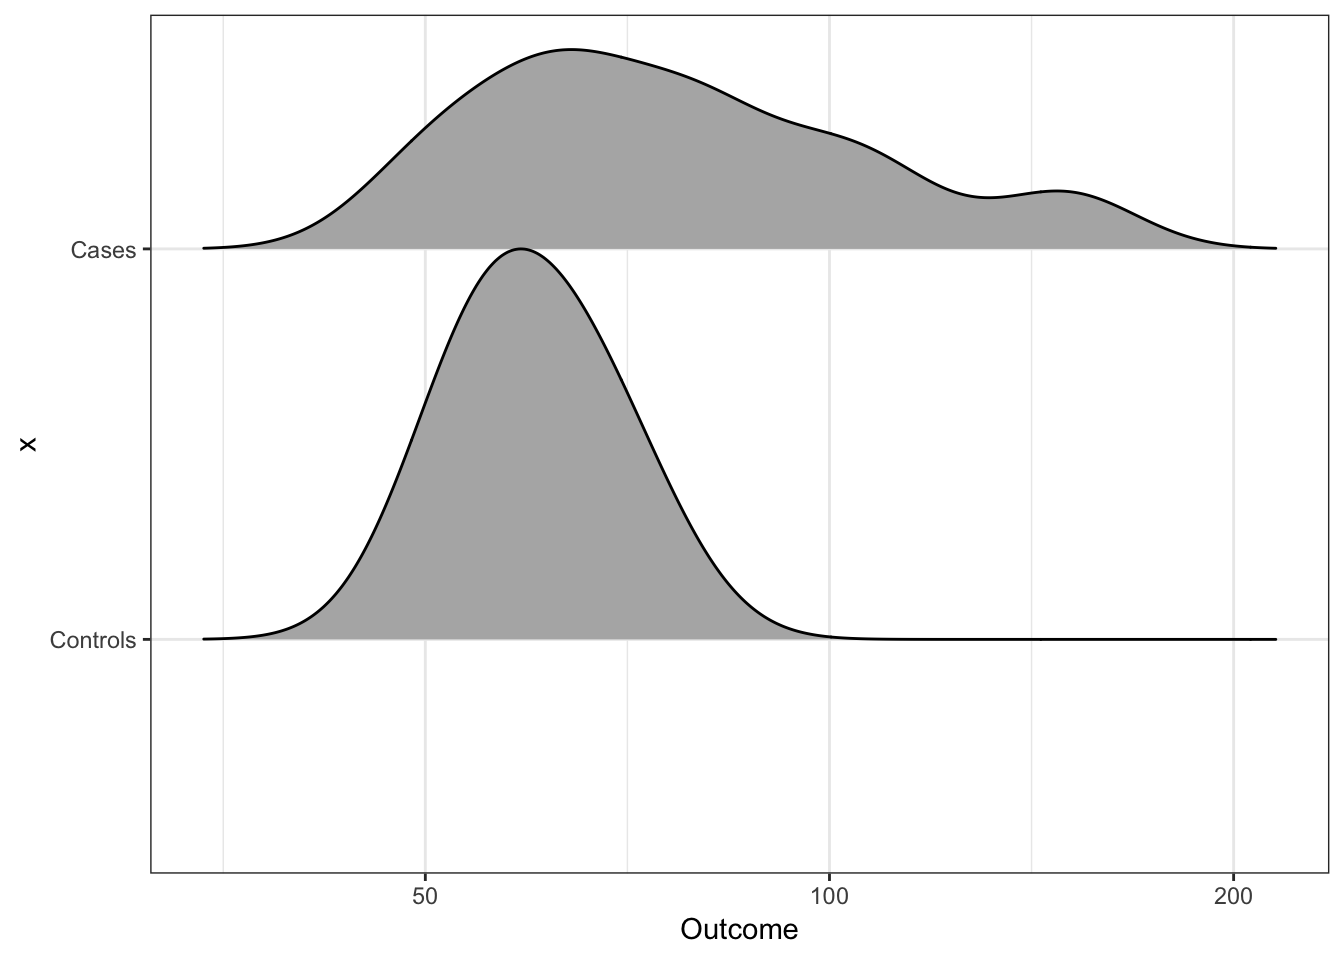
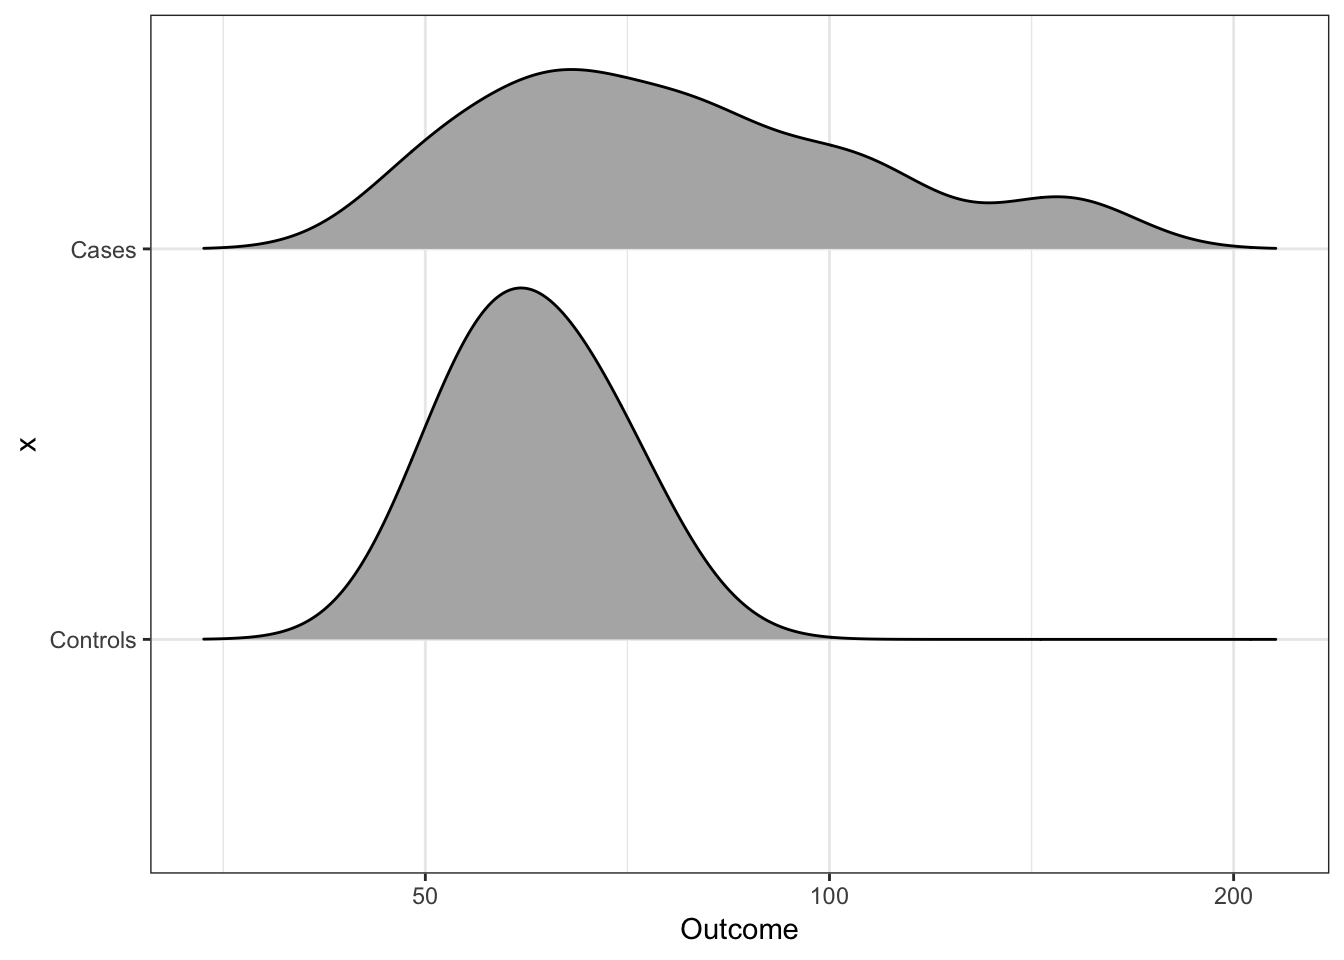
added a raincloud plot

diff --git a/content/post/2019-02-21-dynamite-plots-must-die.html b/content/post/2019-02-21-dynamite-plots-must-die.html
@@ -62,7 +62,18 @@ dat &lt;- data.frame(x = factor(rep(c(&quot;Controls&quot;, &quot;Cases&quot;), 
 <pre class="r"><code>library(ggridges)
 dat %&gt;% ggplot(aes(Outcome, x)) + 
         scale_x_log10() +
-        geom_density_ridges(scale = 1) </code></pre>
+        geom_density_ridges(scale = 0.9) </code></pre>
 <p><img src="/post/2019-02-21-dynamite-plots-must-die_files/figure-html/ridge-plots-1.png" width="672" /></p>
+<p>If of manageable size, you should show the data points as well:</p>
+<pre class="r"><code>library(ggridges)
+dat %&gt;% ggplot(aes(Outcome, x)) + 
+        scale_x_log10() +
+        geom_density_ridges(scale = 0.9,
+                            jittered_points = TRUE, 
+                            position = position_points_jitter(width = 0.05,
+                                                              height = 0),
+                            point_shape = &#39;|&#39;, point_size = 3, 
+                            point_alpha = 1, alpha = 0.7) </code></pre>
+<p><img src="/post/2019-02-21-dynamite-plots-must-die_files/figure-html/ridge-plots-with-data-1.png" width="672" /></p>
 <p>For more recommendation and Excel templates please consult <a href="https://journals.plos.org/plosbiology/article?id=10.1371/journal.pbio.1002128">Weissgerber et al.</a>.</p>
 </div>
